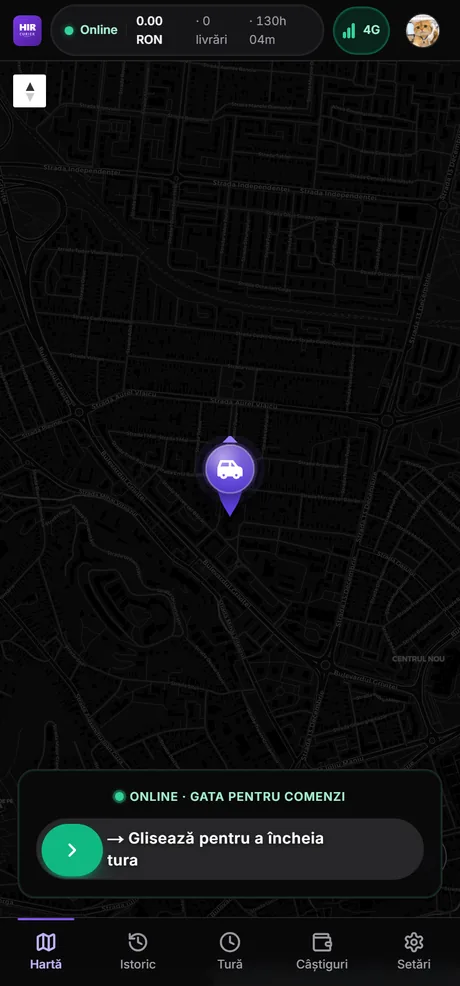
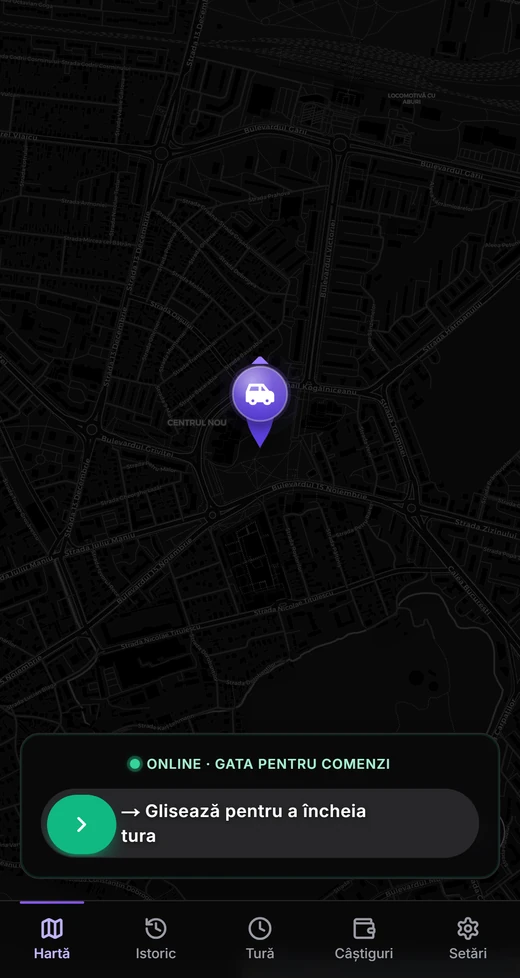
feat(marketing): visual-first hero, homepage steps match the guide, All Time Events (#1036)
Hero is now a picture, not a pitch — per Iulian: "exclude si scrisul cu
afacerea ta. clientii tai etc. prima pagina sa fie direct cu poza cu animatie
pe telefon si in spate cum arata pe desktop."

- Headline, body copy and the two-stat trust strip are gone. The <h1> stays
  screen-reader-only (page_title): a page with no h1 is an a11y + SEO
  regression, and it's what Google reads regardless of what's drawn.
- New `hero-showcase.tsx`: a real 1280px capture of the storefront behind, the
  live animated phone in front. Below `sm` the desktop shot is hidden — at
  phone widths it scales to an unreadable smudge — and the phone stands alone.
  Replaces `hero-phone-mockup.tsx`.
- Homepage "Cum funcționează" now renders GUIDE_STEPS 1-4 with their real
  numbers. It used to show steps 2/4/5/6 renumbered 1-4, so homepage step "3"
  and guide step "3" were different things ("cum functioneaza de pe homepage
  nu este la fel ca cel din cum functioneaza pagina").
- Courier screenshot re-captured one zoom level out at 3x/q90: the street grid,
  roundabouts and street names now survive the downscale, so it reads as a map
  ("la aplicatia de curier ar fi bine la imagine sa se vada si harta").
- All Time Events added to /clienti (5th client, grid now 5-up).

Bug fixed along the way: on /demo-storefront the cover pull-up sat on the whole
identity row, dragging the tenant name up over the cover photo — dark text on a
[…]

diff --git a/apps/restaurant-web/src/components/marketing/marketing-home.tsx b/apps/restaurant-web/src/components/marketing/marketing-home.tsx
@@ -11,7 +11,7 @@ import Link from 'next/link';
 import { ArrowRight } from 'lucide-react';
 import { t, type Locale } from '@/lib/i18n';
 import { MarketingHeader, MarketingFooter } from './marketing-shell';
-import { HeroPhoneMockup } from './hero-phone-mockup';
+import { HeroShowcase } from './hero-showcase';
 import { HowItWorks } from './how-it-works';
 import { ClientLogos } from './client-logos';
 
@@ -25,63 +25,34 @@ export function MarketingHome({ currentLocale }: { currentLocale: Locale }) {
       <MarketingHeader active="/" currentLocale={currentLocale} />
 
       {/* ── Hero ───────────────────────────────────────────────────────── */}
+      {/* 2026-08-02 — no headline, no body copy, no stat strip. Iulian:
+          "exclude si scrisul cu afacerea ta. clientii tai etc. prima pagina sa
+          fie direct cu poza cu animatie pe telefon si in spate cum arata pe
+          desktop." The <h1> stays in the DOM but screen-reader-only: a page
+          with no h1 is an accessibility and SEO regression, and the title is
+          what Google reads even when nothing is drawn on screen. The
+          hero_title_*, hero_body and stat_* dictionary keys are now inert,
+          same convention as hero_badge. */}
       <section className="border-b border-[#E2E8F0] bg-white">
-        <div className="mx-auto max-w-6xl px-4 py-20 sm:px-6 md:py-28">
-          {/* Hero badge "GloriaFood se închide..." hidden 2026-06-02 per Iulian
-              directive — keep link in nav (/migrate-from-gloriafood) only, not as
-              a prominent homepage banner. The dictionary key marketing.home.hero_badge
-              remains so this can be restored by adding back the div. */}
-          <div className="grid items-center gap-12 md:grid-cols-[1.1fr_0.9fr]">
-            <div>
-              <h1 className="text-5xl font-semibold leading-[1.05] tracking-tight md:text-7xl">
-                {t(currentLocale, 'marketing.home.hero_title_pre')}{' '}
-                <span className="text-[#4F46E5]">
-                  {t(currentLocale, 'marketing.home.hero_title_price')}
-                </span>
-              </h1>
-              <p className="mt-6 max-w-xl text-base leading-relaxed text-[#475569] md:text-lg">
-                {t(currentLocale, 'marketing.home.hero_body')}
-              </p>
-              {/* 2026-08-01 — single hero CTA pointing at the interactive demo.
-                  The old secondary "Încep singur — fără card" button was removed
-                  per Iulian; /migrate-from-gloriafood keeps its own page and
-                  sitemap entry, it's just no longer promoted here. */}
-              {/* 2026-08-01 (later) — a second, quiet CTA to the illustrated
-                  walkthrough at /cum-functioneaza. That page is now the site's
-                  main answer to "what is this?", so the hero should point at
-                  it as well as at the live demo. */}
-              <div className="mt-9 flex flex-wrap items-center gap-3">
-                <Link
-                  href="/demo-storefront"
-                  className="inline-flex items-center justify-center gap-1.5 rounded-md bg-[#4F46E5] px-6 py-3.5 text-base font-medium text-white shadow-md shadow-[#4F46E5]/25 ring-1 ring-inset ring-[#4338CA] transition-all hover:bg-[#4338CA] hover:shadow-lg hover:shadow-[#4F46E5]/30 active:translate-y-px focus-visible:outline-2 focus-visible:outline-[#4F46E5] focus-visible:outline-offset-2"
-                >
-                  {t(currentLocale, 'marketing.home.cta_signup')}
-                  <ArrowRight className="h-4 w-4" aria-hidden />
-                </Link>
-                <Link
-                  href="/cum-functioneaza"
-                  className="inline-flex items-center justify-center rounded-md border border-[#CBD5E1] bg-white px-6 py-3.5 text-base font-medium text-[#0F172A] transition-colors hover:bg-[#F8FAFC] focus-visible:outline-2 focus-visible:outline-[#4F46E5] focus-visible:outline-offset-2"
-                >
-                  {t(currentLocale, 'marketing.shell.nav_how')}
-                </Link>
-              </div>
+        <div className="mx-auto max-w-6xl px-4 py-14 sm:px-6 md:py-20">
+          <h1 className="sr-only">{t(currentLocale, 'marketing.home.page_title')}</h1>
 
-              {/* Trust strip */}
-              <dl className="mt-14 grid gap-6 border-t border-[#F1F5F9] pt-8 sm:grid-cols-2">
-                <Stat
-                  label={t(currentLocale, 'marketing.home.stat_storefront_label')}
-                  value={t(currentLocale, 'marketing.home.stat_storefront_value')}
-                  sub={t(currentLocale, 'marketing.home.stat_storefront_sub')}
-                />
-                <Stat
-                  label={t(currentLocale, 'marketing.home.stat_importer_label')}
-                  value={t(currentLocale, 'marketing.home.stat_importer_value')}
-                  sub={t(currentLocale, 'marketing.home.stat_importer_sub')}
-                />
-              </dl>
-            </div>
+          <HeroShowcase currentLocale={currentLocale} />
 
-            <HeroPhoneMockup currentLocale={currentLocale} />
+          <div className="mt-12 flex flex-col items-stretch gap-3 sm:flex-row sm:items-center sm:justify-center">
+            <Link
+              href="/demo-storefront"
+              className="inline-flex items-center justify-center gap-1.5 rounded-md bg-[#4F46E5] px-6 py-3.5 text-base font-medium text-white shadow-md shadow-[#4F46E5]/25 ring-1 ring-inset ring-[#4338CA] transition-all hover:bg-[#4338CA] hover:shadow-lg hover:shadow-[#4F46E5]/30 active:translate-y-px focus-visible:outline-2 focus-visible:outline-[#4F46E5] focus-visible:outline-offset-2"
+            >
+              {t(currentLocale, 'marketing.home.cta_signup')}
+              <ArrowRight className="h-4 w-4" aria-hidden />
+            </Link>
+            <Link
+              href="/cum-functioneaza"
+              className="inline-flex items-center justify-center rounded-md border border-[#CBD5E1] bg-white px-6 py-3.5 text-base font-medium text-[#0F172A] transition-colors hover:bg-[#F8FAFC] focus-visible:outline-2 focus-visible:outline-[#4F46E5] focus-visible:outline-offset-2"
+            >
+              {t(currentLocale, 'marketing.shell.nav_how')}
+            </Link>
           </div>
         </div>
       </section>
@@ -149,20 +120,5 @@ export function MarketingHome({ currentLocale }: { currentLocale: Locale }) {
 
       <MarketingFooter currentLocale={currentLocale} />
     </main>
-  );
-}
-
-function Stat({ label, value, sub }: { label: string; value: string; sub?: string }) {
-  return (
-    <div>
-      <dt className="text-xs font-medium uppercase tracking-wider text-[#94A3B8]">{label}</dt>
-      <dd
-        className="mt-2 text-3xl font-semibold tracking-tight text-[#0F172A]"
-        style={{ fontFeatureSettings: '"tnum"' }}
-      >
-        {value}
-      </dd>
-      {sub && <dd className="mt-1 text-xs text-[#475569]">{sub}</dd>}
-    </div>
   );
 }

diff --git a/apps/restaurant-web/src/components/marketing/hero-showcase.tsx b/apps/restaurant-web/src/components/marketing/hero-showcase.tsx
@@ -1,0 +1,111 @@
+import Link from 'next/link';
+import { getDemoTenant } from '@/lib/demo/demo-tenant';
+import { getMenuByTenant } from '@/lib/menu';
+import { brandingFor } from '@/lib/tenant';
+import { t, type Locale } from '@/lib/i18n';
+import { HeroPhoneMockupScreen } from './hero-phone-mockup-screen';
+
+// The homepage hero — a picture, not a pitch. Iulian 2026-08-02: "exclude si
+// scrisul cu afacerea ta, clientii tai etc. prima pagina sa fie direct cu poza
+// cu animatie pe telefon si in spate cum arata pe desktop."
+//
+// Desktop screenshot behind (a real capture of /demo-storefront at 1440px),
+// the live animated phone in front. The phone is built from divs against the
+// *current* demo tenant rather than being a second screenshot, so the
+// animation is real and the frame can't go stale against a UI change.
+//
+// Best-effort by design: every data read is guarded and falls back to a
+// skeleton frame rather than throwing. This is the marketing homepage — it
+// must never 500 because a Supabase read hiccupped.
+
+const MAX_ITEMS = 3;
+
+export async function HeroShowcase({ currentLocale }: { currentLocale: Locale }) {
+  let name = t(currentLocale, 'marketing.home.hero_mockup_fallback_name');
+  let coverUrl: string | null = null;
+  let items: Array<{ id: string; name: string; price_ron: number; image_url: string | null }> = [];
+
+  try {
+    const tenant = await getDemoTenant();
+    if (tenant) {
+      name = tenant.name;
+      coverUrl = brandingFor(tenant.settings).coverUrl;
+      const menu = await getMenuByTenant(tenant.id);
+      items = menu.flatMap((c) => c.items).slice(0, MAX_ITEMS);
+    }
+  } catch {
+    // Keep the fallback frame — an empty mockup still reads as an illustration.
+  }
+
+  return (
+    <Link
+      href="/demo-storefront"
+      className="group block rounded-2xl focus-visible:outline-2 focus-visible:outline-[#4F46E5] focus-visible:outline-offset-4"
+      aria-label={t(currentLocale, 'marketing.home.cta_signup')}
+    >
+      <div className="relative mx-auto max-w-4xl sm:pb-10">
+        {/* Desktop. Hidden below `sm`: at phone widths a 1280px-wide dashboard
+            scales down to an unreadable smudge, so small screens get the phone
+            on its own instead. */}
+        <div className="hidden overflow-hidden rounded-xl border border-[#E2E8F0] bg-white shadow-2xl shadow-slate-900/10 transition-transform duration-300 group-hover:-translate-y-1 sm:block">
+          {/* eslint-disable-next-line @next/next/no-img-element */}
+          <img
+            src="/guide/store-desktop.webp"
+            alt={t(currentLocale, 'marketing.home.hero_mockup_caption')}
+            width={1280}
+            height={800}
+            decoding="async"
+            className="block h-auto w-full"
+          />
+        </div>
+
+        {/* Phone: centred and on its own below `sm`, overlapping the desktop's
+            lower-left corner above it. */}
+        <div className="mx-auto w-[220px] sm:absolute sm:-left-2 sm:bottom-0 sm:mx-0 sm:w-[210px] md:-left-8">
+          <div className="rounded-[1.75rem] bg-[#0F172A] p-1.5 shadow-2xl shadow-slate-900/30 sm:rounded-[2rem] sm:p-2">
+            <div className="overflow-hidden rounded-[1.35rem] bg-white sm:rounded-[1.65rem]">
+              {/* Cover */}
+              <div className="relative h-16 w-full bg-gradient-to-br from-[#4F46E5] to-[#7C3AED] sm:h-20">
+                {coverUrl && (
+                  // eslint-disable-next-line @next/next/no-img-element
+                  <img src={coverUrl} alt="" className="h-full w-full object-cover" />
+                )}
+              </div>
+
+              {/* Tenant row */}
+              <div className="flex items-center gap-2 px-3 pb-2 pt-2.5">
+                <span className="flex h-6 w-6 shrink-0 items-center justify-center rounded-lg bg-[#4F46E5] text-[10px] font-bold text-white">
+                  {name.slice(0, 1)}
+                </span>
+                <p className="truncate text-[10px] font-bold text-[#0F172A]">{name}</p>
+              </div>
+
+              {items.length > 0 ? (
+                <HeroPhoneMockupScreen
+                  items={items}
+                  addedLabel={t(currentLocale, 'marketing.home.hero_mockup_added')}
+                />
+              ) : (
+                <div className="flex flex-col gap-1.5 px-3 pb-3">
+                  {Array.from({ length: MAX_ITEMS }).map((_, i) => (
+                    <div
+                      key={i}
+                      className="flex items-center gap-2 rounded-lg border border-[#F1F5F9] p-1.5"
+                      aria-hidden
+                    >
+                      <span className="h-8 w-8 shrink-0 rounded-md bg-[#F1F5F9]" />
+                      <span className="flex min-w-0 flex-1 flex-col gap-1">
+                        <span className="h-2 w-2/3 rounded bg-[#F1F5F9]" />
+                        <span className="h-2 w-1/3 rounded bg-[#F1F5F9]" />
+                      </span>
+                    </div>
+                  ))}
+                </div>
+              )}
+            </div>
+          </div>
+        </div>
+      </div>
+    </Link>
+  );
+}

diff --git a/apps/restaurant-web/src/components/marketing/how-it-works.tsx b/apps/restaurant-web/src/components/marketing/how-it-works.tsx
@@ -4,22 +4,21 @@ import { t, type Locale } from '@/lib/i18n';
 import { GuideShot } from './guide-shot';
 import { GUIDE_STEPS } from '@/lib/marketing/guide-steps';
 
-// Homepage teaser for the full walkthrough at /cum-functioneaza. Pulls from
-// the same GUIDE_STEPS data so the two pages can never drift, but shows the
-// four steps that tell the *order's* story (menu → customer orders → it lands
-// on your screen → courier delivers) rather than the account-setup ones, and
-// renumbers them 1-4 for display. The marketing.home.how_it_works_step*
-// dictionary keys this section used are now inert, same convention as
-// hero_badge — the guide's copy is the single source.
+// Homepage teaser for the full walkthrough at /cum-functioneaza: the first
+// four of the same six steps, same numbers, same copy, same screenshots.
+//
+// 2026-08-02 — this used to show steps 2/4/5/6 renumbered 1-4, which meant
+// homepage step "3" and guide step "3" were different things (Iulian: "cum
+// functioneaza de pe homepage nu este la fel ca cel din cum functioneaza
+// pagina"). It's now a straight prefix of the guide, so the two can only ever
+// agree. The marketing.home.how_it_works_step* keys are inert — the guide's
+// copy is the single source.
 //
 // 2026-08-01 — the illustrations here used to be grey CSS mockups, which read
 // as loading skeletons ("arata total neprofesional" — Iulian). They're now the
 // real app screenshots, shared with the guide page.
 
-const TEASER_STEP_NUMBERS = [2, 4, 5, 6];
-const TEASER_STEPS = TEASER_STEP_NUMBERS.map(
-  (n) => GUIDE_STEPS.find((s) => s.n === n)!,
-);
+const TEASER_STEPS = GUIDE_STEPS.slice(0, 4);
 
 export function HowItWorks({ currentLocale }: { currentLocale: Locale }) {
   return (
@@ -29,7 +28,7 @@ export function HowItWorks({ currentLocale }: { currentLocale: Locale }) {
       </h2>
 
       <ol className="mt-10 grid gap-x-6 gap-y-10 sm:grid-cols-2 lg:grid-cols-4">
-        {TEASER_STEPS.map((step, i) => (
+        {TEASER_STEPS.map((step) => (
           <li key={step.n}>
             {/* Fixed-height, centred image slot: the four shots have very
                 different aspect ratios (wide dashboard vs. tall phone) and
@@ -48,7 +47,7 @@ export function HowItWorks({ currentLocale }: { currentLocale: Locale }) {
               className="mt-5 flex h-9 w-9 items-center justify-center rounded-full bg-[#EEF2FF] text-base font-bold text-[#4F46E5]"
               aria-hidden
             >
-              {i + 1}
+              {step.n}
             </span>
             <h3 className="mt-3 text-base font-semibold tracking-tight text-[#0F172A]">
               {t(currentLocale, step.titleKey)}

diff --git a/apps/restaurant-web/src/app/demo-storefront/page.tsx b/apps/restaurant-web/src/app/demo-storefront/page.tsx
@@ -29,9 +29,13 @@ export default async function DemoStorefrontPage() {
         {/* relative z-10: the cover above has `relative` positioning, which
             (even with z-index:auto) paints above static in-flow siblings —
             without this, the cover clipped the top of the avatar wherever
-            the -mt-8 pull-up made them overlap. */}
-        <div className="relative z-10 -mt-8 flex items-end gap-3">
-          <div className="h-16 w-16 overflow-hidden rounded-2xl border-4 border-white bg-white shadow-sm">
+            the pull-up made them overlap.
+            2026-08-02: the pull-up used to sit on this row, which dragged the
+            tenant name up over the cover photo too — dark text on a dark
+            photo, unreadable. It belongs on the avatar alone, which is how
+            the real storefront header (tenant-header.tsx) already did it. */}
+        <div className="relative z-10 flex items-end gap-3">
+          <div className="-mt-8 h-16 w-16 shrink-0 overflow-hidden rounded-2xl border-4 border-white bg-white shadow-sm">
             {logoUrl ? (
               // eslint-disable-next-line @next/next/no-img-element
               <img src={logoUrl} alt={tenant.name} className="h-full w-full object-cover" />

diff --git a/apps/restaurant-web/src/lib/marketing/clients.ts b/apps/restaurant-web/src/lib/marketing/clients.ts
@@ -15,6 +15,8 @@
 //   Roata Norocului   — roata-norocului.ro header lockup. Theirs is
 //                       white-on-transparent (invisible on a white card), so
 //                       it sits on a chip in their own brand burgundy
+//   All Time Events   — alltimeevents.ro header lockup (the event centre
+//                       behind Foișorul A, our `foisorul-a` tenant)
 //
 // `locations` + `city` are verified against each client's own website, not
 // estimated — this is public copy about someone else's business.
@@ -57,5 +59,12 @@ export const MARKETING_CLIENTS: readonly MarketingClient[] = [
     city: 'Brașov',
     locations: 1,
     logo: '/clients/roata-norocului.webp',
+  },
+  {
+    slug: 'all-time-events',
+    name: 'All Time Events',
+    city: 'Brașov',
+    locations: 1,
+    logo: '/clients/all-time-events.webp',
   },
 ] as const;

diff --git a/apps/restaurant-web/src/app/clienti/page.tsx b/apps/restaurant-web/src/app/clienti/page.tsx
@@ -59,7 +59,7 @@ export default async function ClientsPage() {
           {t(currentLocale, 'marketing.clients.hero_title')}
         </h1>
 
-        <ul className="mt-12 grid gap-5 sm:grid-cols-2 lg:grid-cols-4">
+        <ul className="mt-12 grid gap-5 sm:grid-cols-2 md:grid-cols-3 lg:grid-cols-5">
           {MARKETING_CLIENTS.map((client) => (
             <li
               key={client.slug}

diff --git a/apps/restaurant-web/src/lib/marketing/guide-steps.ts b/apps/restaurant-web/src/lib/marketing/guide-steps.ts
@@ -72,8 +72,8 @@ export const GUIDE_STEPS: readonly GuideStep[] = [
     titleKey: 'marketing.guide.step6_title',
     bodyKey: 'marketing.guide.step6_body',
     src: '/guide/courier-map.webp',
-    width: 460,
-    height: 986,
+    width: 520,
+    height: 978,
     frame: 'phone',
   },
 ] as const;
